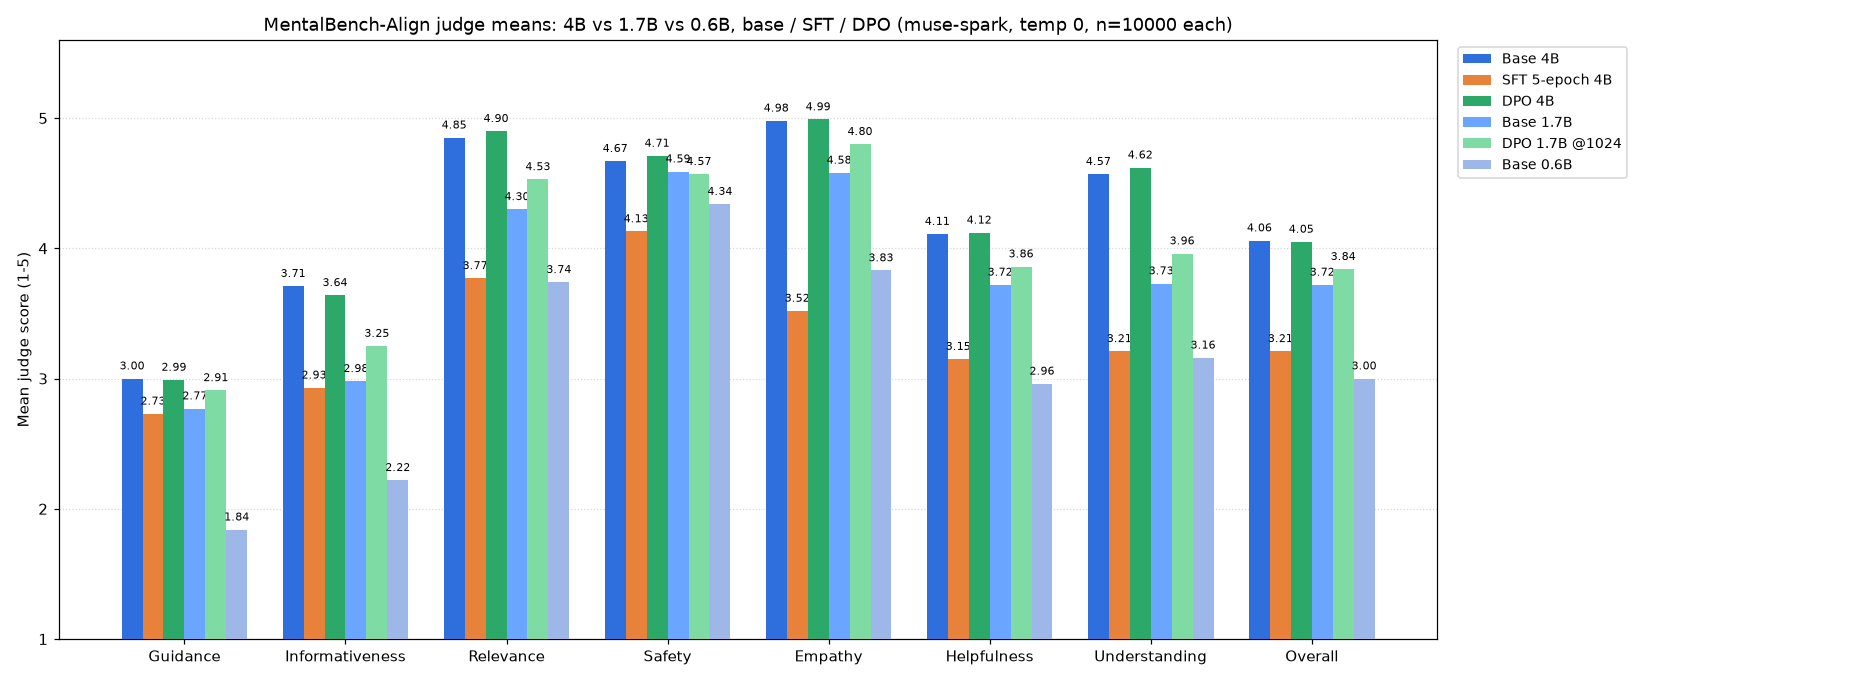
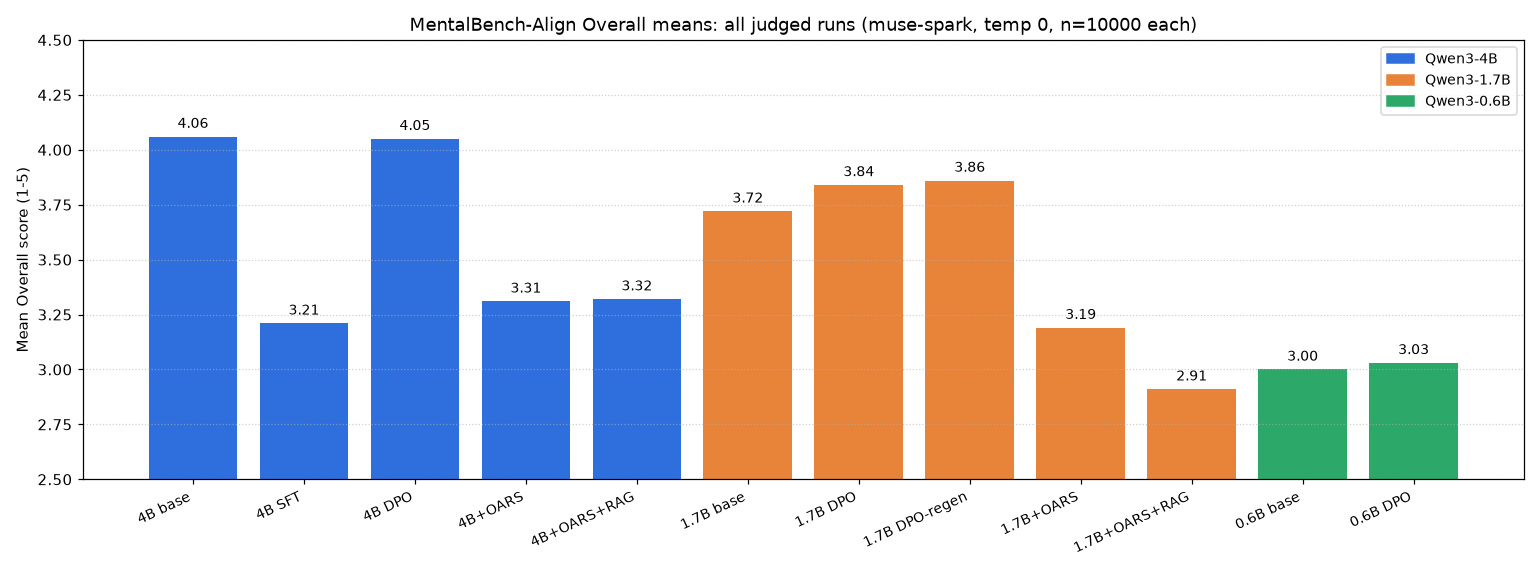
docs(evals): judge DPO-0.6B (3.03, no lift), consolidate to master + per-model charts

diff --git a/docs/evals.md b/docs/evals.md
@@ -1,12 +1,12 @@
 # Evals
 
-![MentalBench-Align judge means: 4B (base/SFT/DPO) and 1.7B (base/DPO)](evals-judge-means.png)
+![MentalBench-Align Overall means: all judged runs](evals-judge-means.png)
 
-![Qwen3-4B per-dimension: base, SFT, DPO](evals-4b.png)
+![Qwen3-4B per-dimension: base, SFT, DPO, OARS, OARS+RAG](evals-4b.png)
 
-![Qwen3-1.7B per-dimension: base vs DPO](evals-1p7b.png)
+![Qwen3-1.7B per-dimension: base, DPO, regular-regen, OARS, OARS+RAG](evals-1p7b.png)
 
-![OARS ablation: regular preamble vs OARS vs OARS+RAG, 4B base and 1.7B DPO](evals-oars.png)
+![Qwen3-0.6B per-dimension: base vs DPO](evals-0p6b.png)
 
 ## Coverage: what has been generated and judged
 
@@ -17,7 +17,7 @@ Machine-readable version of this table: `eval_coverage` in `docs/features.json`.
 |----------|------|-----|-----|-----------|---------------|----------|--------------|
 | Qwen3-4B | ✓✓ | ✓✓ | ✓✓ | ✓✓ | ✓✓ |  |  |
 | Qwen3-1.7B | ✓✓ |  | ✓✓ |  |  | ✓✓ | ✓✓ |
-| Qwen3-0.6B | ✓✓ |  | ✓ |  |  |  |  |
+| Qwen3-0.6B | ✓✓ |  | ✓✓ |  |  |  |  |
 
 DPO is the canonical run per model (1.7B = 1024-token rerun; the 512-token run
 was truncated and is superseded). Base/SFT/DPO use the regular paper preamble;
@@ -72,8 +72,36 @@ idx 0–9999, no gaps. Full output (gitignored):
 
 Notes: no measurable RAG effect under the OARS voice (Overall 3.32 vs 3.31,
 all-axis deltas ≤0.04). Retrieval grounding does not move judge scores when
-the reply stays short and non-directive. See the OARS ablation chart at the
+the reply stays short and non-directive. See the 4B per-dimension chart at the
 top of this file.
+
+## DPO-from-base, Qwen3-0.6B ckpt-250 (n=10000)
+
+MentalBench-Align judge (same prompt, judge, and settings) over post-think final
+answers in `data/eval/mbench-qwen3-4b-baseline/output_mbench_0p6b_dpo_final.csv`
+(col `qwen3_0p6b_dpo`, DPO-from-base unsloth/Qwen3-0.6B, same batch-1/max-2000
+recipe, ckpt-250, train_loss 0.112), scored 2026-10-27, idx 0–9999, no gaps.
+Full output (gitignored): `data/eval/mbench-judge-0p6b-dpo.csv`.
+Zero truncation, zero empties.
+
+| Dimension       | Mean | SD   | %5  | %≤2 |
+|-----------------|------|------|-----|-----|
+| Guidance        | 1.85 | 0.75 | 0   | 79 |
+| Informativeness | 2.30 | 0.49 | 0   | 69 |
+| Relevance       | 3.77 | 0.79 | 17  | 4  |
+| Safety          | 4.13 | 1.26 | 60  | 18 |
+| Empathy         | 3.96 | 0.55 | 11  | 1  |
+| Helpfulness     | 2.99 | 0.68 | 0   | 22 |
+| Understanding   | 3.16 | 0.91 | 1   | 28 |
+| Overall         | 3.03 | 0.71 | 0   | 22 |
+
+Notes: DPO adds nothing at the floor (Overall 3.03 vs base 3.00, +0.03).
+Guidance is flat (1.84 → 1.85), Relevance/Understanding flat — at 0.6B the
+capacity constraint binds before preference tuning can help. Safety is the one
+mover, and the wrong way (4.34 → 4.13, ≤2 rows 12% → 18%): the DPO voice is
+slightly less safe at the tail. Empathy ticks up (3.83 → 3.96). The headroom
+the base section predicted is not reachable by DPO at this scale. See the
+0.6B per-dimension chart at the top of this file.
 
 ## Base Qwen3-0.6B (n=10000)
 
